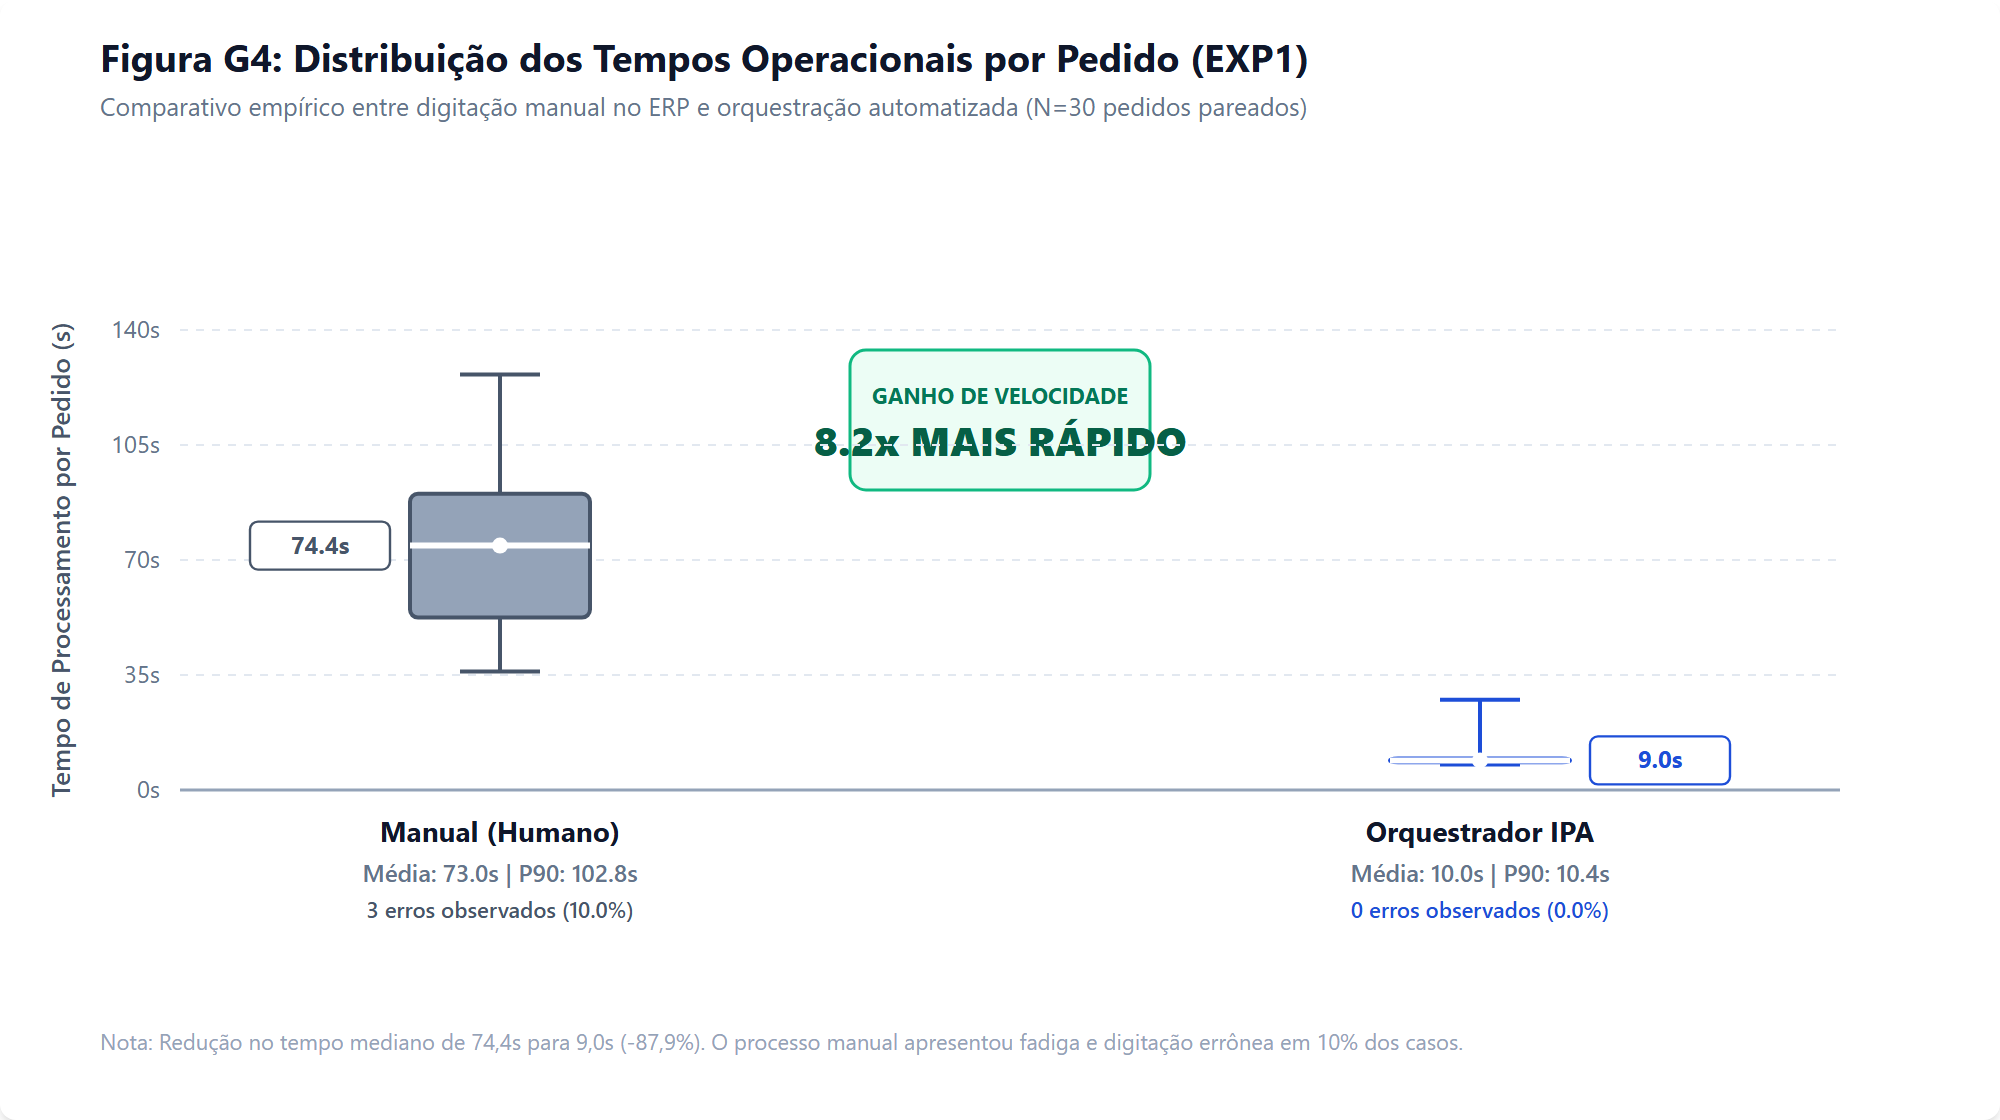
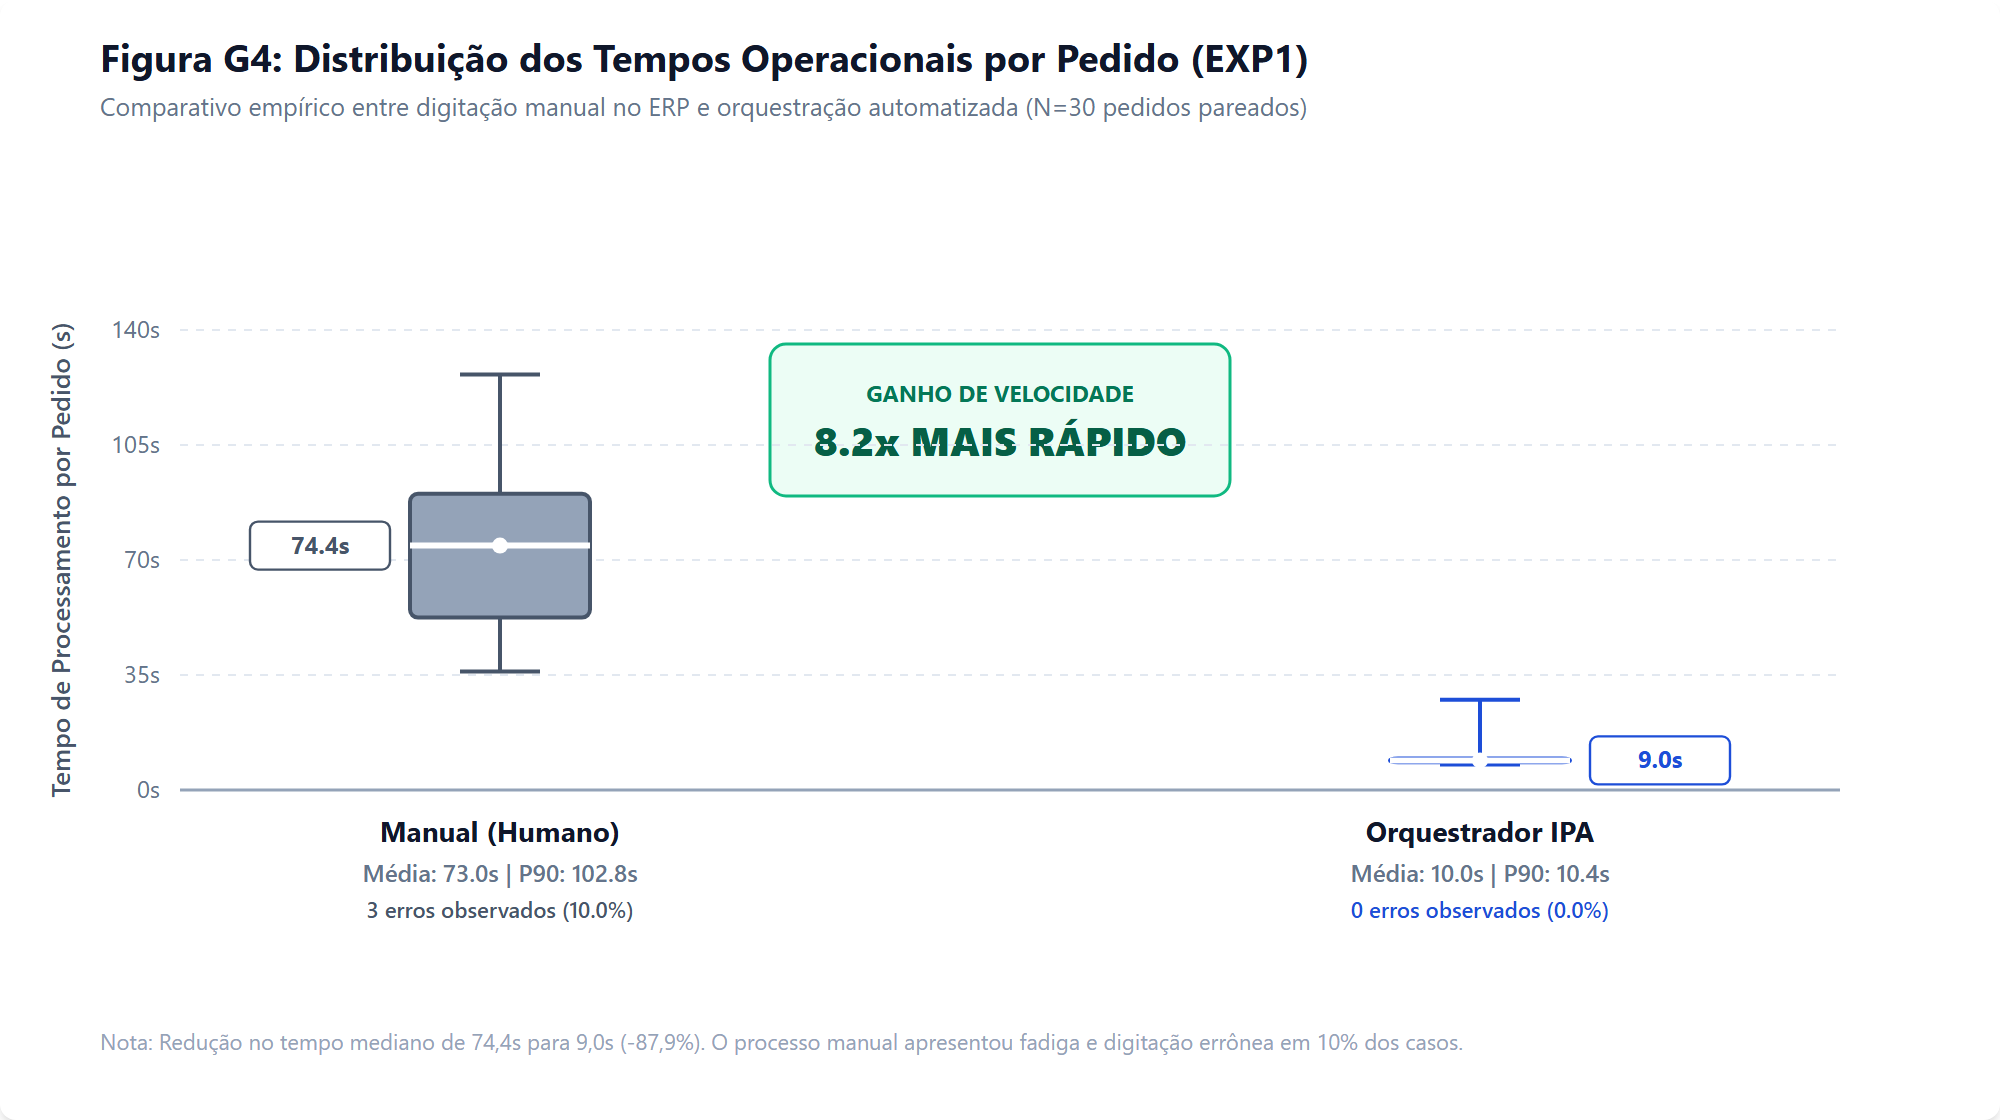
fix(figures): ampliacao da caixa de speed-up em G4 eliminando overflow de texto

Changed region(s): [[0.403, 0.4375, 0.589, 0.4688], [0.403, 0.2812, 0.589, 0.3125], [0.434, 0.3438, 0.589, 0.375]]

diff --git a/eval/figures.py b/eval/figures.py
@@ -476,10 +476,10 @@ def gerar_svg_g4() -> str:
         <text x="50" y="58" font-size="12.5" font-weight="400" fill="#64748b">Comparativo empírico entre digitação manual no ERP e orquestração automatizada (N=30 pedidos pareados)</text>
 
         <!-- Selo de Speed-Up Centralizado com ampla folga de ambos os lados -->
-        <g transform="translate(425, 175)">
-            <rect x="0" y="0" width="150" height="70" fill="#ecfdf5" stroke="#10b981" stroke-width="1.5" rx="8" />
-            <text x="75" y="27" text-anchor="middle" font-size="11" font-weight="700" fill="#047857">GANHO DE VELOCIDADE</text>
-            <text x="75" y="53" text-anchor="middle" font-size="20" font-weight="800" fill="#065f46">{speedup:.1f}x MAIS RÁPIDO</text>
+        <g transform="translate(385, 172)">
+            <rect x="0" y="0" width="230" height="76" fill="#ecfdf5" stroke="#10b981" stroke-width="1.5" rx="8" />
+            <text x="115" y="29" text-anchor="middle" font-size="11.5" font-weight="700" fill="#047857">GANHO DE VELOCIDADE</text>
+            <text x="115" y="56" text-anchor="middle" font-size="20" font-weight="800" fill="#065f46">{speedup:.1f}x MAIS RÁPIDO</text>
         </g>
 
         <!-- Linhas de Grade e Eixo Y -->
